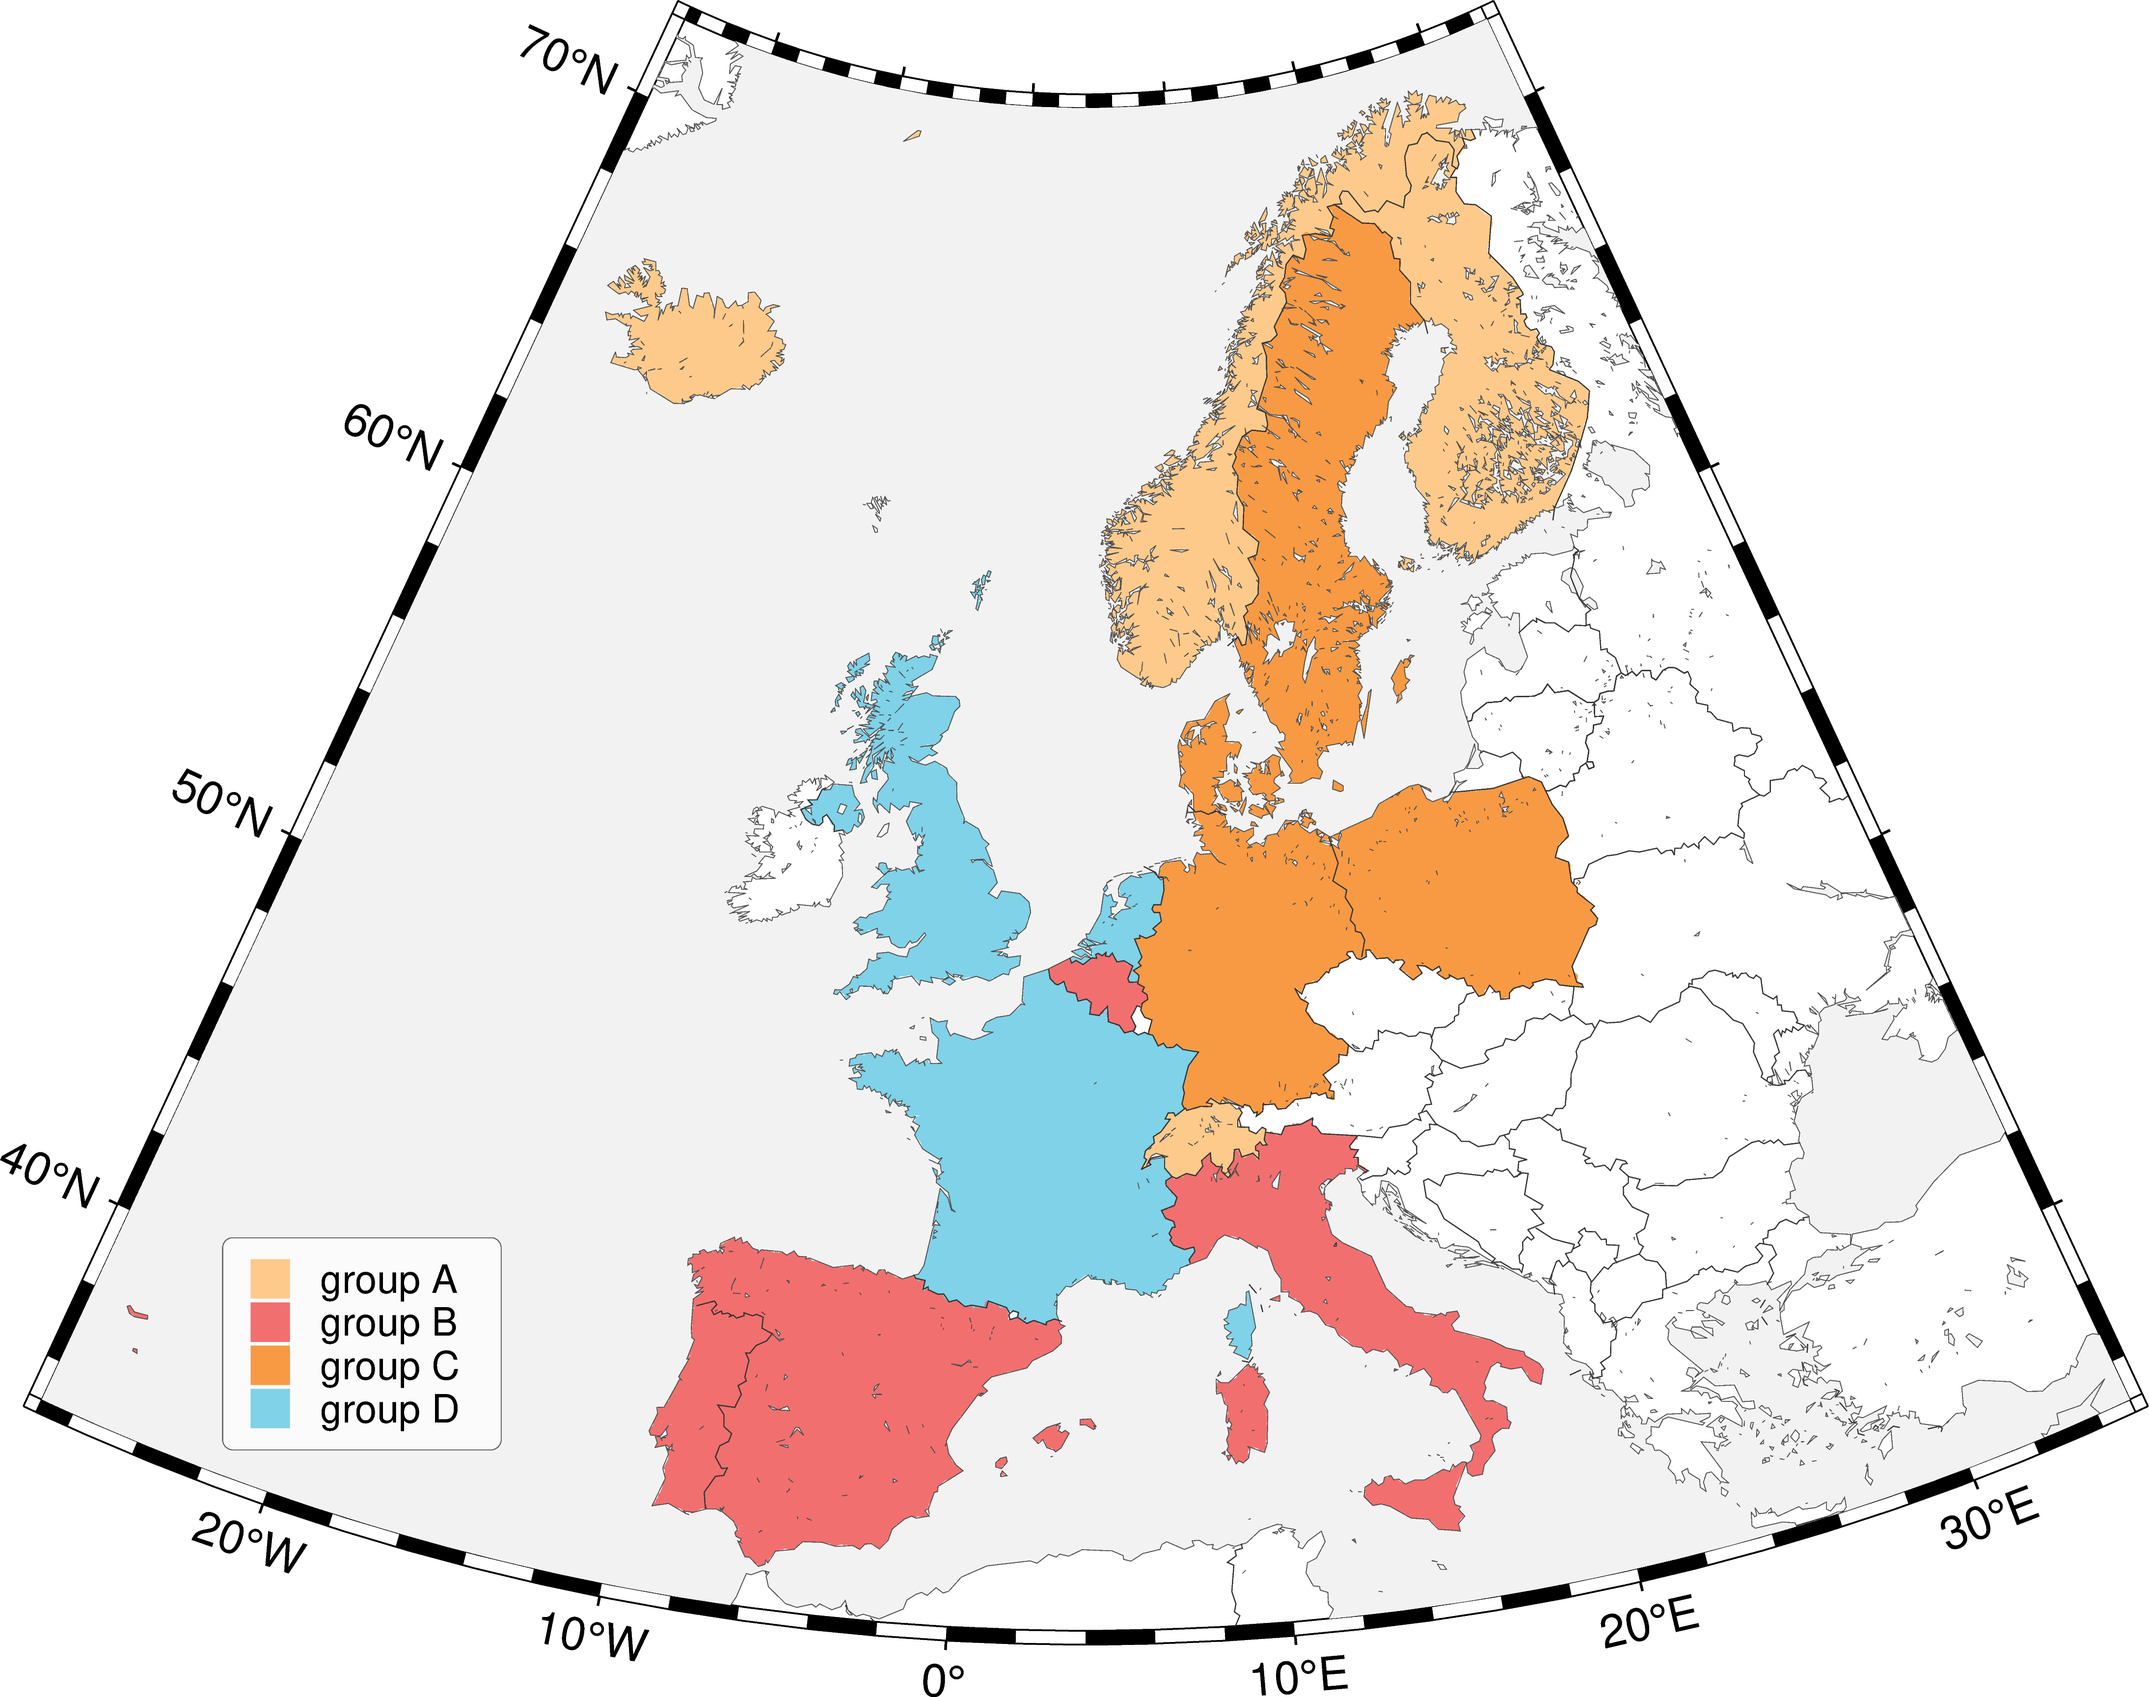
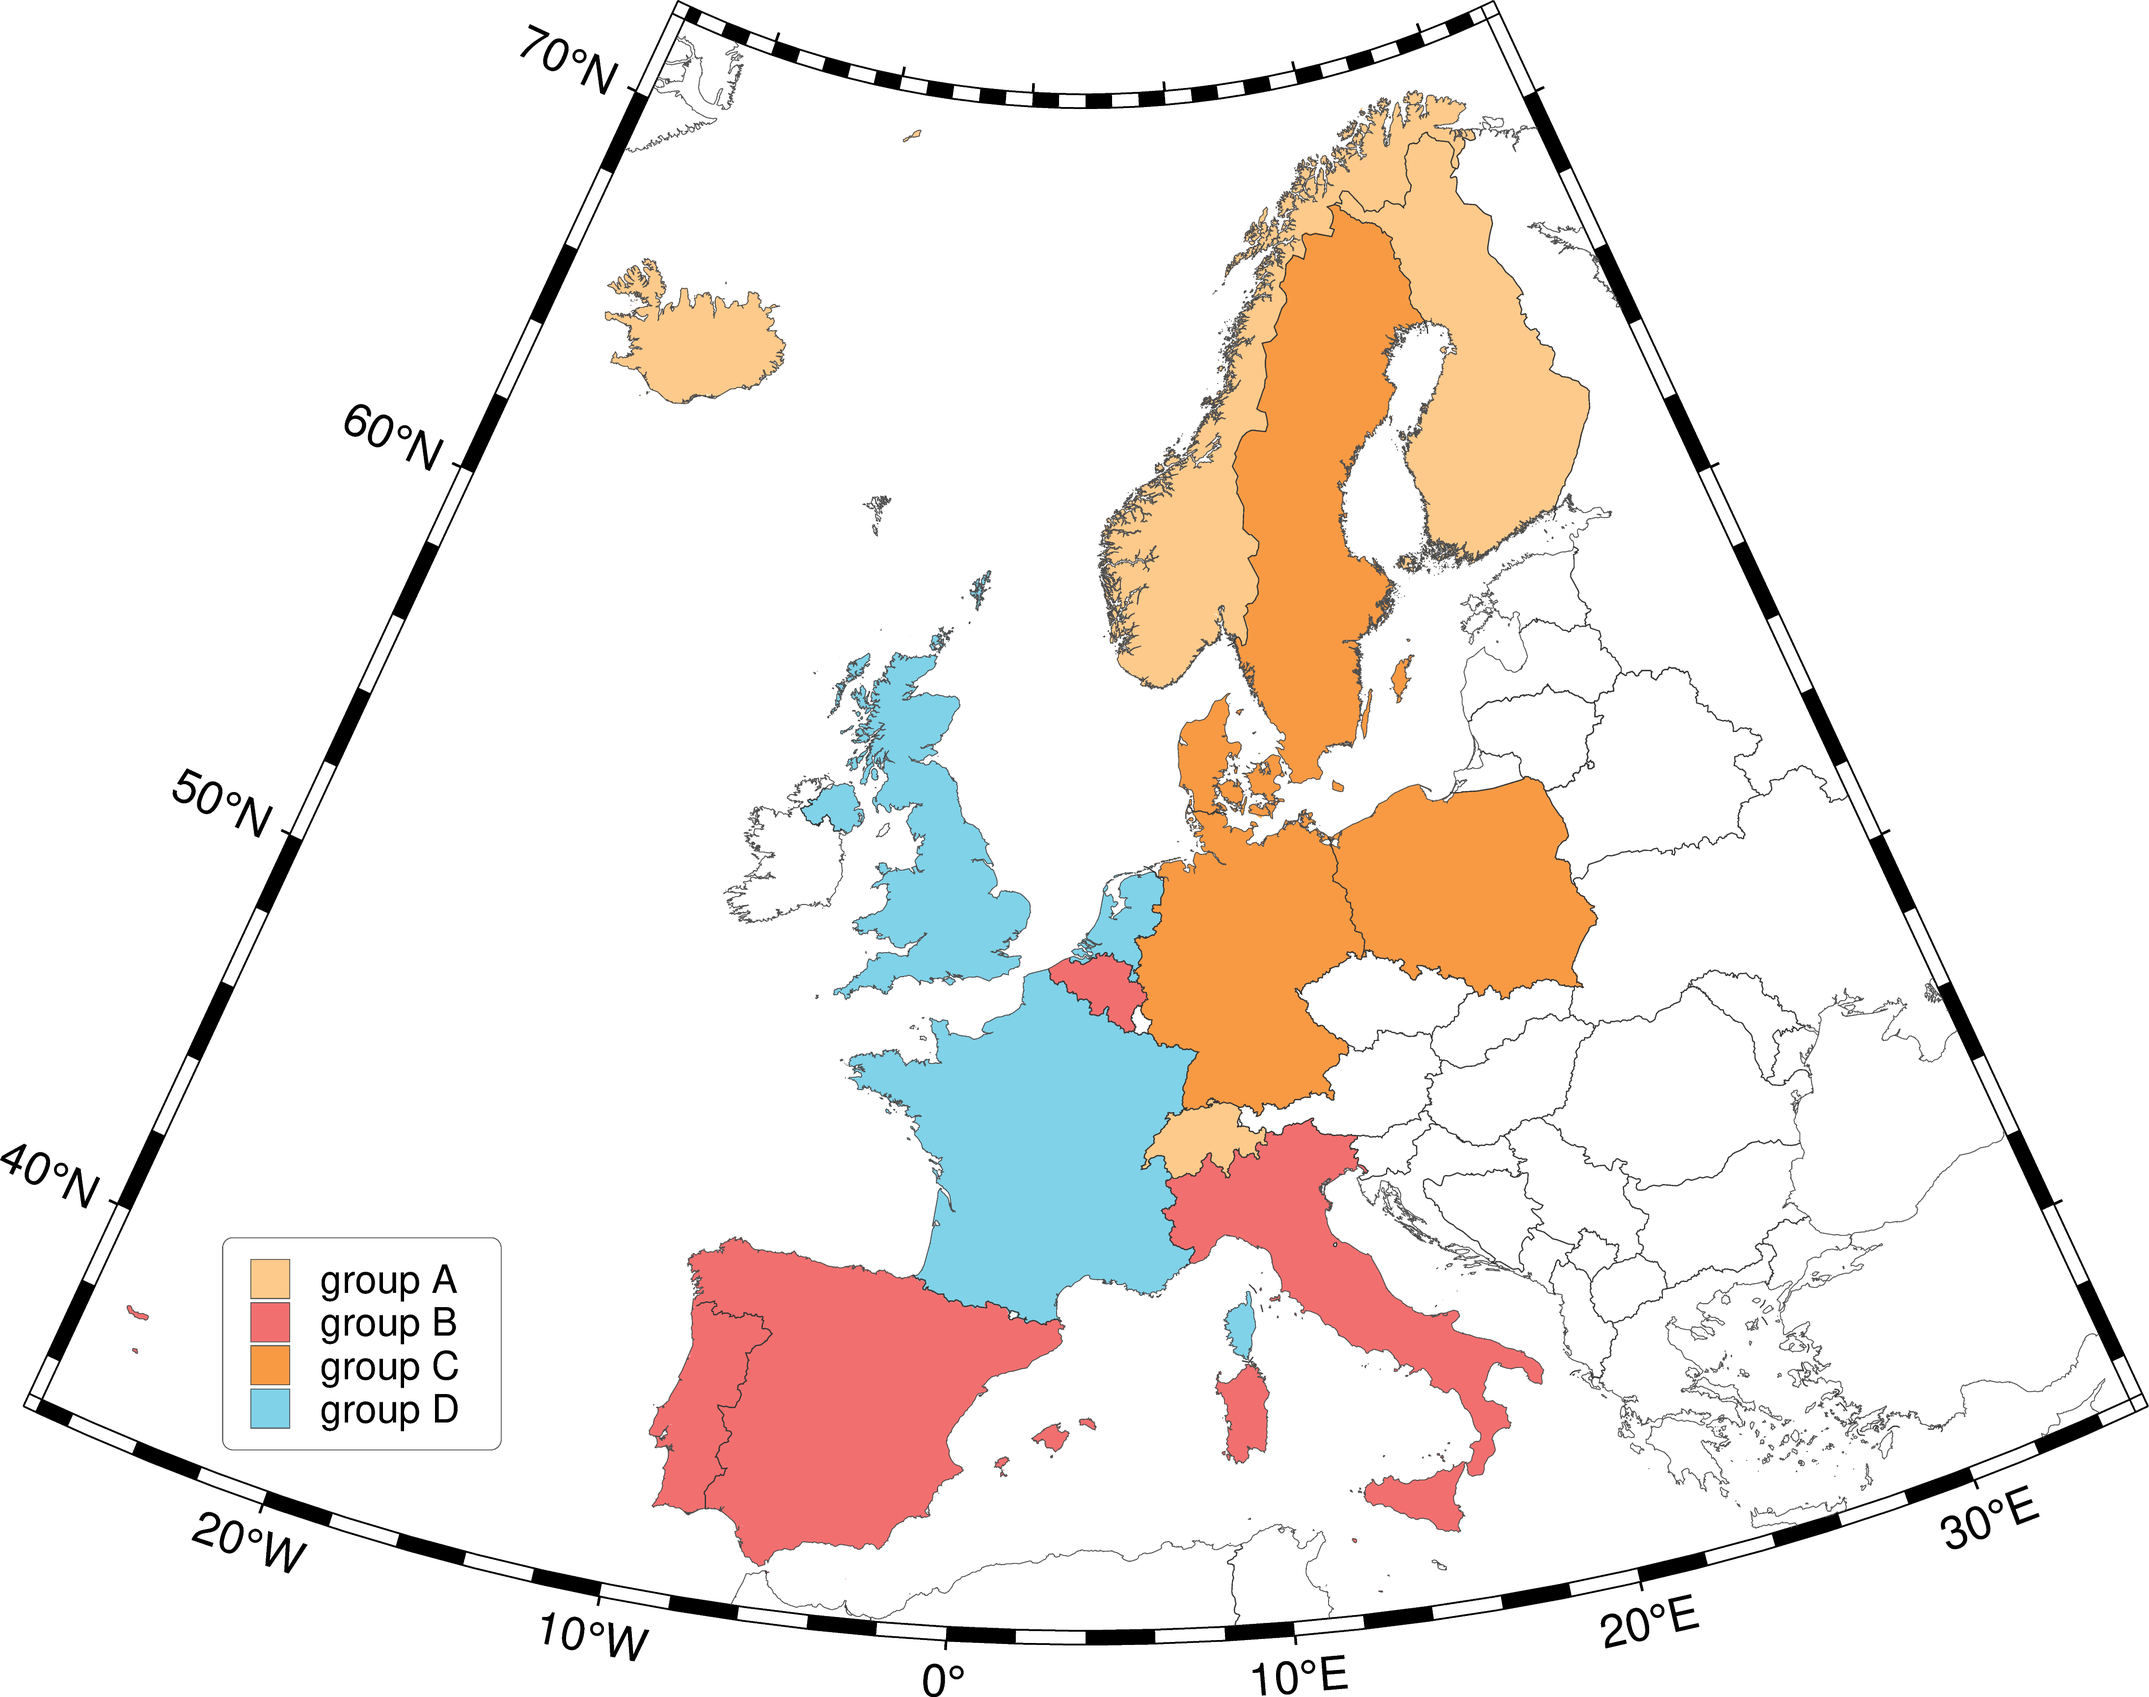
Update code map

diff --git a/012_euro25/euro25_02_countries.py b/012_euro25/euro25_02_countries.py
@@ -54,14 +54,10 @@ fig.coast(
         f"France,GB,Netherlands+g{color_grd}",  # England, Wales in one group
     ]
 )
-fig.coast(
-    resolution="low",
-    water="gray95",
-    shorelines="0.1p,gray30",
-    borders="1/0.2p,gray20",
-)
+fig.coast(shorelines="1/0.1p,gray30", borders="1/0.2p,gray20")
 
-args_leg = {"x": 0, "y": 0, "style": "s0.4c"}
+# Plot dummy data points for legend
+args_leg = {"x": 0, "y": 0, "style": "s0.4c", "pen": "0.1p,gray30"}
 fig.plot(fill=color_gra, **args_leg, label="group A")
 fig.plot(fill=color_grb, **args_leg, label="group B")
 fig.plot(fill=color_grc, **args_leg, label="group C")
